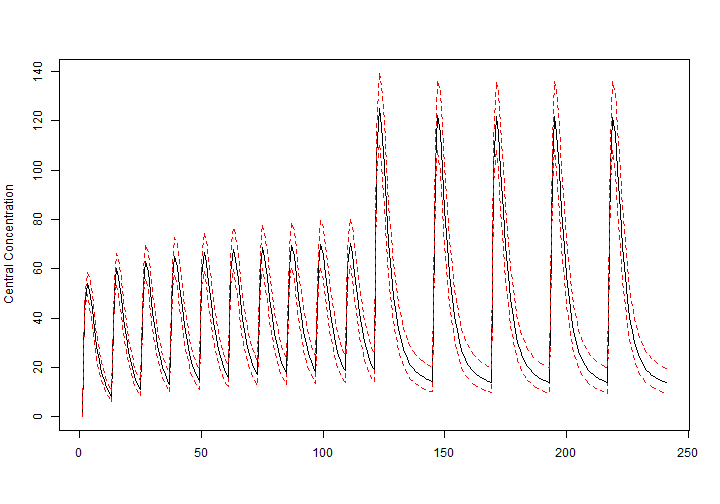
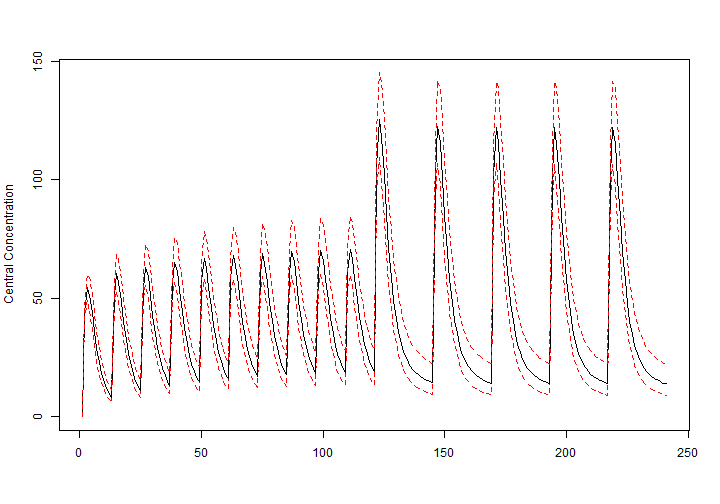
Update the documentation to point to nlmixrdeveolpment/RxODE

diff --git a/README.md b/README.md
@@ -40,7 +40,7 @@ Steps:
    * In the "Select Additional Tasks" dialog window, check the
      option "Edit the system PATH".  This is important to be able to
      locate the C, Fortran compilers and other tools needed during 
-     the use of `RxODE`.  
+     the use of `RxODE`.
 
    * A simple way to test whether `Rtools` was properly installed is
      to compile the `hello.c` program.  Simply open a new MSDOS command 
@@ -61,8 +61,9 @@ Steps:
      Hello World!
      ```
 
-     If you get the error `gcc: error: CreateProcess: No such file or directory`     then you know `Rtools` was not properly installed, in particular,
-     it did not update your system `PATH` variable.
+     If you get the error `gcc: error: CreateProcess: No such file or
+     directory` then you know `Rtools` was not properly installed, in
+     particular, it did not update your system `PATH` variable.
 
 2.  Obtain the `RxODE` package, either from github or CRAN.  The 
     installation requires use of the gcc compiler, so you'll know if Step 1 
@@ -80,7 +81,7 @@ Steps:
       ``` 
       install.packages("devtools")
       library("devtools", lib = "C:/Rlib")
-      install_github("hallowkm/RxODE/RxODE")
+      install_github("nlmixrdevelopment/RxODE")
       ```
 
 3. Test the `RxODE` installation:
@@ -296,9 +297,17 @@ print(x)
 
 ```
 ## Solved RxODE object
-## Dll: C:\Users\fidlema3\AppData\Local\Temp\ep\RtmpS488tR\Rx_intro-231c63735e9d/mod1.d/mod1_x64.dll
+## Dll: C:\Users\fidlema3\AppData\Local\Temp\ep\RtmpYr2ddH\Rx_intro-1e206bc0b0/mod1.d/mod1_x64.dll
 ## 
 ## Parameters:
+```
+
+```
+## Warning: Installed Rcpp (0.12.12) different from Rcpp used to build dplyr (0.12.11).
+## Please reinstall dplyr to avoid random crashes or undefined behavior.
+```
+
+```
 ##      V2      V3      KA      CL       Q     Kin    Kout    EC50 
 ##  40.200 297.000   0.294  18.600  10.500   1.000   1.000 200.000 
 ## 
@@ -329,7 +338,7 @@ print(x)
 
 ```
 ## Solved RxODE object
-## Dll: C:\Users\fidlema3\AppData\Local\Temp\ep\RtmpS488tR\Rx_intro-231c63735e9d/mod1.d/mod1_x64.dll
+## Dll: C:\Users\fidlema3\AppData\Local\Temp\ep\RtmpYr2ddH\Rx_intro-1e206bc0b0/mod1.d/mod1_x64.dll
 ## 
 ## Parameters:
 ##      V2      V3      KA      CL       Q     Kin    Kout    EC50 
@@ -363,7 +372,7 @@ print(x)
 
 ```
 ## Solved RxODE object
-## Dll: C:\Users\fidlema3\AppData\Local\Temp\ep\RtmpS488tR\Rx_intro-231c63735e9d/mod1.d/mod1_x64.dll
+## Dll: C:\Users\fidlema3\AppData\Local\Temp\ep\RtmpYr2ddH\Rx_intro-1e206bc0b0/mod1.d/mod1_x64.dll
 ## 
 ## Parameters:
 ##      V2      V3      KA      CL       Q     Kin    Kout    EC50 
@@ -520,7 +529,7 @@ x
 
 ```
 ## Solved RxODE object
-## Dll: C:\Users\fidlema3\AppData\Local\Temp\ep\RtmpS488tR\Rx_intro-231c63735e9d/mod1.d/mod1_x64.dll
+## Dll: C:\Users\fidlema3\AppData\Local\Temp\ep\RtmpYr2ddH\Rx_intro-1e206bc0b0/mod1.d/mod1_x64.dll
 ## 
 ## Parameters:
 ##      V2      V3      KA      CL       Q     Kin    Kout    EC50 
@@ -564,7 +573,7 @@ x
 
 ```
 ## Solved RxODE object
-## Dll: C:\Users\fidlema3\AppData\Local\Temp\ep\RtmpS488tR\Rx_intro-231c63735e9d/mod1.d/mod1_x64.dll
+## Dll: C:\Users\fidlema3\AppData\Local\Temp\ep\RtmpYr2ddH\Rx_intro-1e206bc0b0/mod1.d/mod1_x64.dll
 ## 
 ## Parameters:
 ##      V2      V3      KA      CL       Q     Kin    Kout    EC50 
@@ -605,7 +614,7 @@ x
 
 ```
 ## Solved RxODE object
-## Dll: C:\Users\fidlema3\AppData\Local\Temp\ep\RtmpS488tR\Rx_intro-231c63735e9d/mod1.d/mod1_x64.dll
+## Dll: C:\Users\fidlema3\AppData\Local\Temp\ep\RtmpYr2ddH\Rx_intro-1e206bc0b0/mod1.d/mod1_x64.dll
 ## 
 ## Parameters:
 ##    V2    V3    KA    CL     Q   Kin  Kout  EC50 
@@ -656,12 +665,12 @@ head(theta.all)
 
 ```
 ##         KA       CL   V2    Q  V3 Kin Kout EC50
-## [1,] 0.294 16.59628 40.2 10.5 297   1    1  200
-## [2,] 0.294 20.72278 40.2 10.5 297   1    1  200
-## [3,] 0.294 23.32283 40.2 10.5 297   1    1  200
-## [4,] 0.294 20.19896 40.2 10.5 297   1    1  200
-## [5,] 0.294 22.32383 40.2 10.5 297   1    1  200
-## [6,] 0.294 21.67093 40.2 10.5 297   1    1  200
+## [1,] 0.294 24.64917 40.2 10.5 297   1    1  200
+## [2,] 0.294 17.88461 40.2 10.5 297   1    1  200
+## [3,] 0.294 14.43490 40.2 10.5 297   1    1  200
+## [4,] 0.294 21.46713 40.2 10.5 297   1    1  200
+## [5,] 0.294 17.43918 40.2 10.5 297   1    1  200
+## [6,] 0.294 19.05176 40.2 10.5 297   1    1  200
 ```
 
 Each subproblem can be simulated by using an explicit loop (or the `apply()`
